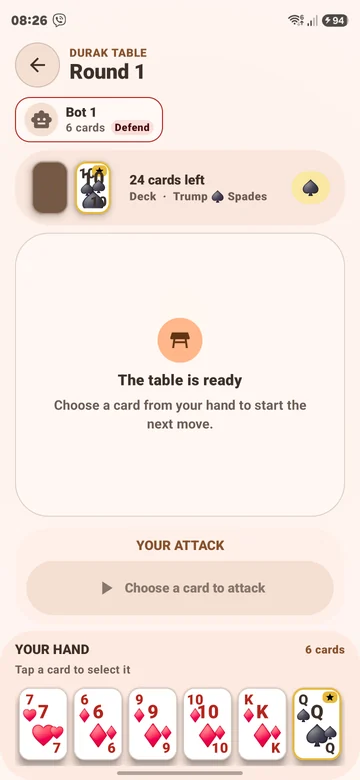
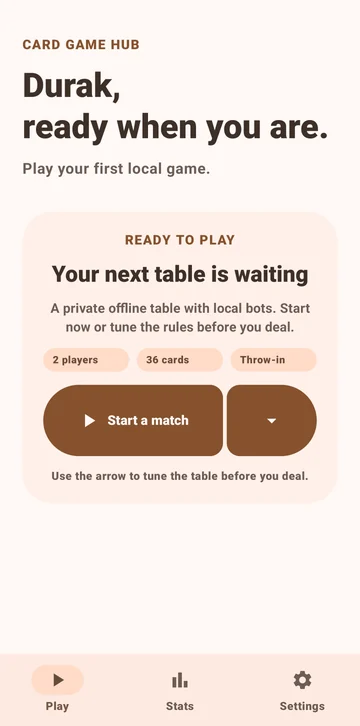
Update README screenshots

diff --git a/README.md b/README.md
@@ -14,9 +14,9 @@ The screenshots below are captured from Card Game Hub and show the current home,
 |---|---|
 | ![Card Game Hub home screen](docs/screenshots/home.webp) | ![Card Game Hub game table](docs/screenshots/game-table.webp) |
 
-| In-game table detail | Settings |
-|---|---|
-| ![Card Game Hub in-game detail](docs/screenshots/game-table-detail.webp) | ![Card Game Hub settings](docs/screenshots/settings.webp) |
+| Stats |
+|---|
+| ![Card Game Hub statistics screen](docs/screenshots/stats.webp) |
 
 ## Features
 
